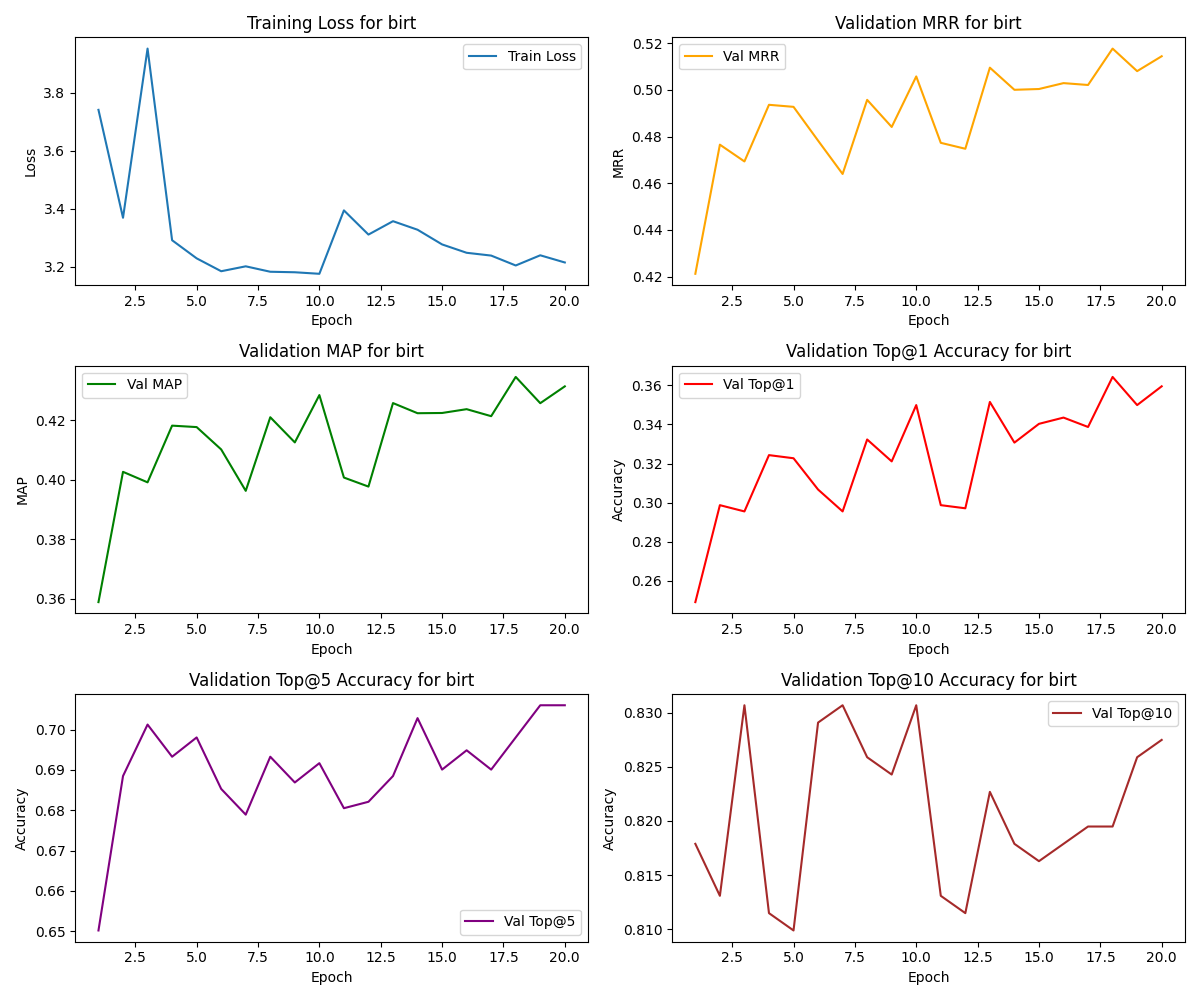
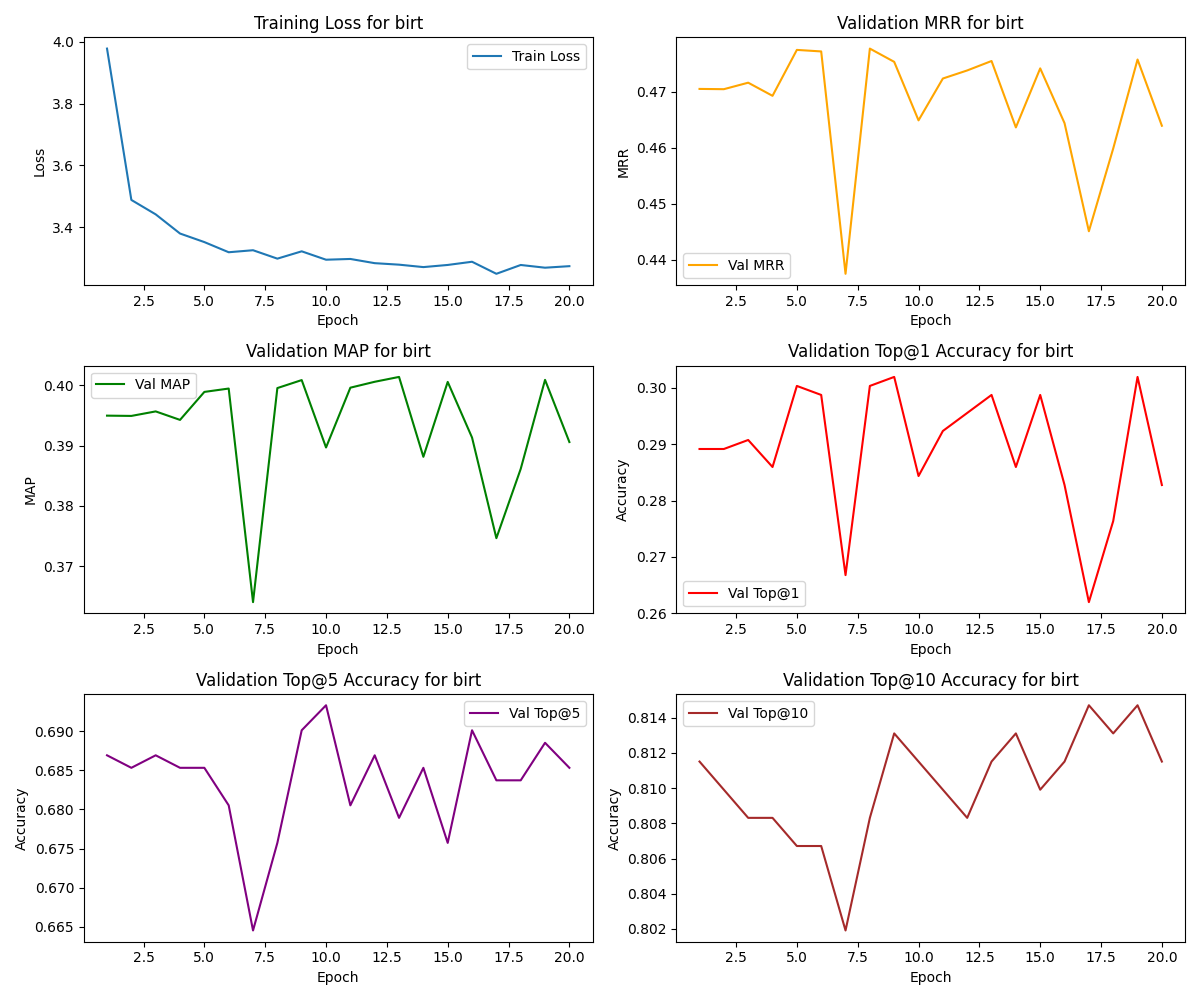
performance_graph for GNN model with GAT or GCN

diff --git a/src/models/gnn_ast_model.py b/src/models/gnn_ast_model.py
@@ -355,7 +355,7 @@ def gcn_model(project_name):
     epochs = 20
     num_gnn_layers = 4
     gnn_dropout_rate = 0.2
-    use_gat = True
+    use_gat = False
     num_attention_heads = 2
     dropout_rate = 0.1
 
@@ -470,7 +470,7 @@ def gcn_model(project_name):
     # Save model
     output_dir = os.path.join(data_folder_path, "models")
     os.makedirs(output_dir, exist_ok=True)
-    model_filename = f"{project_name}_bl_gnn.pt"
+    model_filename = f"{project_name}_bl_gnn_gcn.pt"
     model_save_path = os.path.join(output_dir, model_filename)
     torch.save(model.state_dict(), model_save_path)
     logger.info(f"Model saved to {model_save_path}")

diff --git a/src/main.py b/src/main.py
@@ -43,16 +43,16 @@ from utils.util_code_cpg import extract_src_to_cpg
 # prepare_dataset_for_codebert("eclipse_platform_ui")
 
 # # Step 7: Finetune the codebert
-codebert_finetune("eclipse_platform_ui")
+# codebert_finetune("eclipse_platform_ui")
 
 # # Step 8: Convert src code to ast
-# extract_src_to_ast("aspectj")
+# extract_src_to_ast("eclipse_platform_ui")
 
 # # Step 9: Convert src code to cpg
 # extract_src_to_cpg()
 
 # # Step 10: NN based ast representation bug localization
-# gcn_model("jdt")
+gcn_model("birt")
 
 
 
